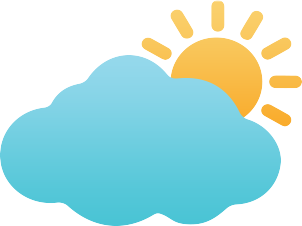
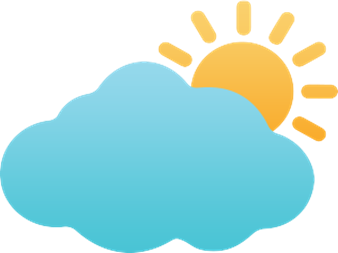
about page

diff --git a/about.html b/about.html
@@ -57,8 +57,74 @@
       </div>
     </div>
     <div class="container" id="front-page">
+       
+       <!-- NOTE: Table -->
         <div class="jumbotron">
-            Hello World!!
+            <table class="table table-striped table-hover ">
+    <thead>
+        <tr>
+            <th>Number</th>
+            <th>Name</th>
+            <th>Nickname</th>
+            <th>Major</th>
+        </tr>
+    </thead>
+    <tbody>
+        <tr class="info">
+            <td>1</td>
+            <td>Column content</td>
+            <td>Column content</td>
+            <td>Computer Engineering</td>
+        </tr>
+        <tr class="warning">
+            <td>2</td>
+            <td>Column content</td>
+            <td>Column content</td>
+            <td>Computer Engineering</td>
+        </tr>
+        <tr class="info">
+            <td>3</td>
+            <td>Column content</td>
+            <td>Column content</td>
+            <td>Computer Engineering</td>
+        </tr>
+        <tr class="warning">
+            <td>4</td>
+            <td>Column content</td>
+            <td>Column content</td>
+            <td>Computer Engineering</td>
+        </tr>
+        <tr class="info">
+            <td>5</td>
+            <td>Column content</td>
+            <td>Column content</td>
+            <td>Computer Engineering</td>
+        </tr>
+        <tr class="warning">
+            <td>6</td>
+            <td>Phasin Sarunpornkul</td>
+            <td>Gun</td>
+            <td>Software and knowledge Engineering</td>
+        </tr>
+        <tr class="info">
+            <td>7</td>
+            <td>Column content</td>
+            <td>Column content</td>
+            <td>Software and knowledge Engineering</td>
+        </tr>
+        <tr class="warning">
+            <td>8</td>
+            <td>Column content</td>
+            <td>Column content</td>
+            <td>Software and knowledge Engineering</td>
+        </tr>
+    </tbody>
+</table>
+       <div class="container">   
+           <div class="jumbotron">
+               <img src="images/member.jpg" alt="" class="img-responsive" id="member-img">
+           </div>
+       </div>
         </div>
     </div>
     <script src="jquery-2.1.4.min.js"></script>

diff --git a/style.css b/style.css
@@ -57,10 +57,7 @@ h4 {
 }
 
 .weather-img {
-    width: 300px;
-    height: 200px;
-    padding-bottom: 20px;
-    padding-top: 20px;
+    
     display: block;
     margin-left: auto;
     margin-right: auto;
